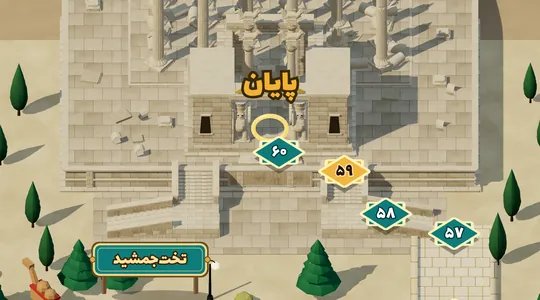
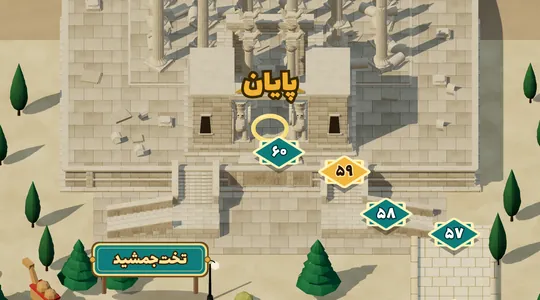
Shiraz board: forested mountain pass behind the Quran Gate
Claude-Session: https://claude.ai/code/session_01Rjy4C5wyMsBPrp6gT8ag68

Changed region(s): [[0.8, 0.72, 0.8889, 0.84], [0.6815, 0.66, 0.7704, 0.78], [0.5926, 0.54, 0.6519, 0.63]]

diff --git a/js/maps.js b/js/maps.js
@@ -14,7 +14,7 @@ const MAPS = [
     cities: ['دروازهی قرآن','حافظیه','باغ ارم','ارگ کریمخان','تختجمشید'],
     finish: 'تختجمشید', goalText: 'به تختجمشید رسیدی! کورش و داریوش منتظرتاند',
     image: 'assets/map-shiraz.webp', lite: 'assets/map-shiraz-lite.webp', preview: 'assets/map-shiraz-prev.webp', ratio: 2160 / 11880,
-    coords: [[47.422, 98.405], [32.647, 98.136], [23.333, 96.574], [24.836, 93.914], [39.302, 93.49], [54.323, 93.49], [69.342, 93.473], [76.667, 91.565], [69.281, 89.668], [54.324, 89.53], [50.0, 87.171], [50.0, 84.44], [46.217, 78.246], [31.298, 78.084], [22.222, 76.48], [23.889, 73.833], [38.429, 73.44], [53.45, 73.44], [68.472, 73.439], [77.778, 71.876], [74.959, 69.335], [60.134, 69.096], [50.0, 67.683], [50.0, 64.952], [50.0, 62.221], [50.578, 59.504], [64.365, 58.844], [78.9, 58.449], [80.556, 55.8], [70.908, 54.298], [55.887, 54.298], [40.865, 54.298], [25.844, 54.293], [17.222, 52.61], [17.222, 49.879], [17.222, 47.148], [18.928, 44.456], [25.571, 42.012], [26.667, 39.302], [26.667, 36.57], [35.136, 34.861], [50.156, 34.854], [65.178, 34.854], [75.556, 33.485], [74.404, 30.8], [60.095, 30.308], [45.074, 30.308], [30.178, 30.128], [26.667, 27.668], [26.667, 24.937], [26.667, 22.206], [32.475, 20.064], [47.48, 20.01], [62.502, 20.01], [77.432, 20.247], [84.1, 18.302], [84.1, 15.571], [71.431, 14.911], [63.778, 13.482], [51.666, 12.841]],
+    coords: [[46.16, 98.56], [31.171, 98.428], [23.333, 96.602], [31.381, 94.813], [46.435, 94.803], [61.49, 94.803], [75.701, 94.266], [73.576, 91.784], [58.684, 91.566], [50.0, 89.888], [50.0, 83.7], [50.0, 80.963], [47.598, 78.376], [32.826, 78.086], [22.222, 76.752], [22.99, 74.04], [37.001, 73.44], [52.056, 73.44], [67.11, 73.44], [77.778, 72.117], [76.014, 69.47], [61.396, 69.096], [50.0, 67.906], [50.0, 65.169], [50.0, 62.432], [50.279, 59.7], [63.269, 58.844], [78.061, 58.566], [80.556, 55.988], [71.904, 54.304], [56.85, 54.298], [41.795, 54.298], [26.74, 54.298], [17.222, 52.767], [17.222, 50.03], [17.222, 47.292], [18.653, 44.586], [25.338, 42.138], [26.667, 39.428], [26.667, 36.691], [34.505, 34.865], [49.559, 34.854], [64.613, 34.854], [75.556, 33.581], [74.68, 30.874], [60.56, 30.308], [45.505, 30.308], [30.545, 30.156], [26.667, 27.734], [26.667, 24.997], [26.667, 22.26], [32.215, 20.074], [47.248, 20.01], [62.302, 20.01], [77.266, 20.246], [84.1, 18.326], [84.1, 15.589], [71.497, 14.913], [63.778, 13.488], [51.666, 12.841]],
     cellCity: [0, 0, 0, 0, 0, 0, 0, 0, 0, 0, 0, 0, 1, 1, 1, 1, 1, 1, 1, 1, 1, 1, 1, 1, 1, 2, 2, 2, 2, 2, 2, 2, 2, 2, 2, 2, 2, 2, 3, 3, 3, 3, 3, 3, 3, 3, 3, 3, 3, 3, 3, 4, 4, 4, 4, 4, 4, 4, 4, 4],
     fx: false, price: 150
   }

diff --git a/sw.js b/sw.js
@@ -1,5 +1,5 @@
 // نخ بده — offline support
-const CACHE = 'nakh-bede-v70';
+const CACHE = 'nakh-bede-v71';
 // The board image is large; it is fetched after install, in the background, so it
 // never competes with the first screen. (It is also cached the first time it is used.)
 // The board image is fetched by the page itself (it picks the full or the lite size)
